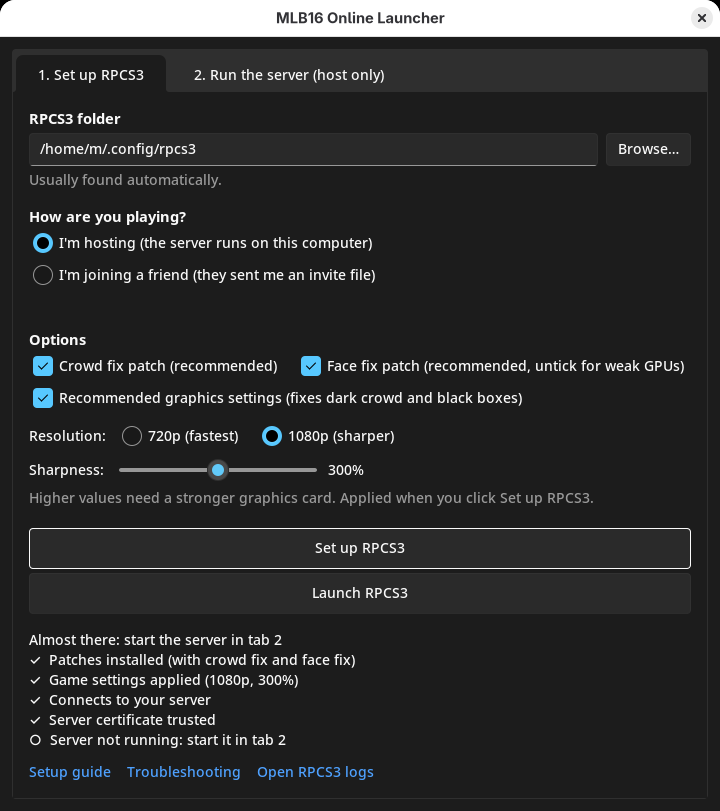
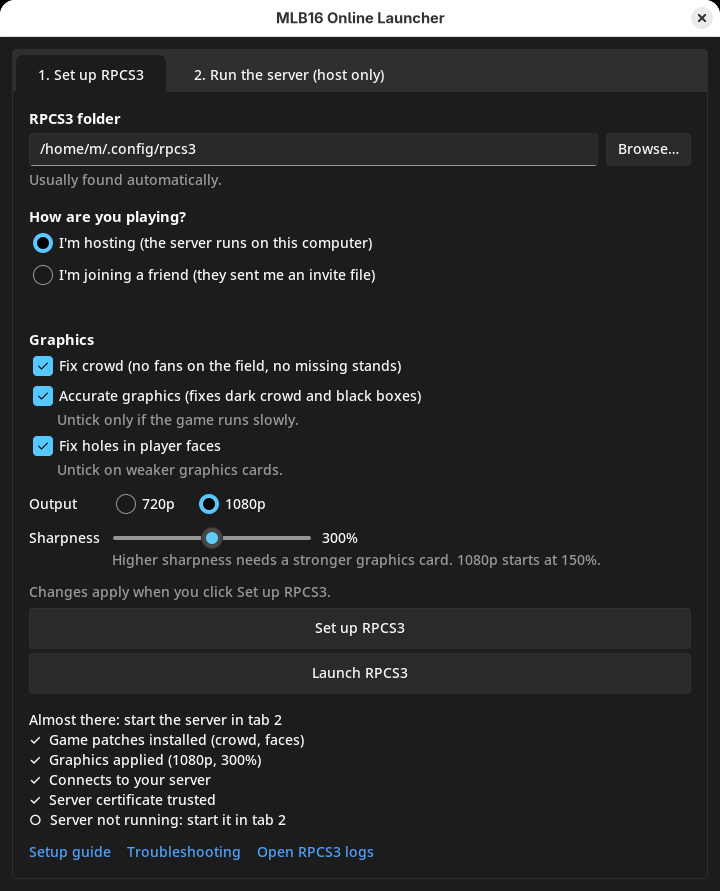
Launcher v0.4.3: clearer Graphics section, setup and launch edge cases
The Options section becomes Graphics: one checkbox per row with plain labels (Fix crowd, Accurate
graphics, Fix holes in player faces), hints only where unticking matters, Output and Sharpness with a
hint that explains the 1080p jump to 150%, and the "applies on Set up" note above the button.

Unticking Accurate graphics now sets those settings back to RPCS3's defaults. Set up can no longer
fail forever: a corrupt RPCS3 YAML file is kept as .broken and rebuilt, certificate and other errors
get a message. Launch asks for RPCS3 on macOS when Spotlight can't find it, opens a picked .app, and
a new RPCS3 folder clears the saved program path.

diff --git a/app/mlb16_online.py b/app/mlb16_online.py
@@ -160,32 +160,33 @@ class App(tk.Tk):
         self.invite_label = ttk.Label(inv, style='Hint.TLabel')
         self.invite_label.pack(side='right', padx=(10, 0))
 
-        ttk.Label(f, text='Options', font=('', 11, 'bold')).grid(row=7, column=0, columnspan=3, sticky='w',
-                                                                 pady=(16, 0))
+        ttk.Label(f, text='Graphics', font=('', 11, 'bold')).grid(row=7, column=0, columnspan=3, sticky='w',
+                                                                  pady=(16, 0))
         self.crowd = tk.BooleanVar(value=self.cfg['crowd_fix'])
         self.graphics = tk.BooleanVar(value=self.cfg['graphics'])
         self.face = tk.BooleanVar(value=self.cfg['face_fix'])
-        fixes = ttk.Frame(f)
-        fixes.grid(row=8, column=0, columnspan=3, sticky='w', pady=2)
-        ttk.Checkbutton(fixes, text='Crowd fix patch (recommended)', variable=self.crowd,
-                        command=self.refresh).pack(side='left')
-        ttk.Checkbutton(fixes, text='Face fix patch (recommended, untick for weak GPUs)', variable=self.face,
-                        command=self.refresh).pack(side='left', padx=(16, 0))
-        ttk.Checkbutton(f, text='Recommended graphics settings (fixes dark crowd and black boxes)',
-                        variable=self.graphics, command=self.refresh).grid(row=9, column=0, columnspan=3, sticky='w', pady=2)
+        opts = ttk.Frame(f)
+        opts.grid(row=8, column=0, columnspan=3, sticky='w')
+        for text, var, hint in (('Fix crowd (no fans on the field, no missing stands)', self.crowd, None),
+                                ('Accurate graphics (fixes dark crowd and black boxes)', self.graphics,
+                                 'Untick only if the game runs slowly.'),
+                                ('Fix holes in player faces', self.face, 'Untick on weaker graphics cards.')):
+            ttk.Checkbutton(opts, text=text, variable=var, command=self.refresh).pack(anchor='w', pady=(2, 0))
+            if hint:
+                ttk.Label(opts, text=hint, style='Hint.TLabel').pack(anchor='w', padx=(28, 0))
         # Resolution and Sharpness share a grid so their controls line up
         pic = ttk.Frame(f)
-        pic.grid(row=10, column=0, columnspan=3, sticky='w', pady=(8, 0))
+        pic.grid(row=10, column=0, columnspan=3, sticky='w', pady=(10, 0))
         self.picture = tk.StringVar(value=self.cfg['picture'])
-        ttk.Label(pic, text='Resolution:').grid(row=0, column=0, sticky='w', padx=(0, 12))
+        ttk.Label(pic, text='Output').grid(row=0, column=0, sticky='w', padx=(0, 12))
         res = ttk.Frame(pic)
         res.grid(row=0, column=1, sticky='w')
-        ttk.Radiobutton(res, text='720p (fastest)', variable=self.picture, value='720p',
+        ttk.Radiobutton(res, text='720p', variable=self.picture, value='720p',
                         command=self.picture_changed).pack(side='left')
-        ttk.Radiobutton(res, text='1080p (sharper)', variable=self.picture, value='1080p',
+        ttk.Radiobutton(res, text='1080p', variable=self.picture, value='1080p',
                         command=self.picture_changed).pack(side='left', padx=(16, 0))
         self.scale = tk.IntVar(value=self.cfg.get('scale') or int(s.PICTURE[self.picture.get()]['Resolution Scale']))
-        ttk.Label(pic, text='Sharpness:').grid(row=1, column=0, sticky='w', padx=(0, 12), pady=(8, 0))
+        ttk.Label(pic, text='Sharpness').grid(row=1, column=0, sticky='w', padx=(0, 12), pady=(8, 0))
         sharp = ttk.Frame(pic)
         sharp.grid(row=1, column=1, sticky='w', pady=(8, 0))
         self.scale_slider = ttk.Scale(sharp, from_=100, to=500, length=200, value=self.scale.get(),
@@ -193,11 +194,13 @@ class App(tk.Tk):
         self.scale_slider.pack(side='left')
         self.scale_label = ttk.Label(sharp, text=f'{self.scale.get()}%', width=5)
         self.scale_label.pack(side='left', padx=(10, 0))
-        ttk.Label(f, text='Higher values need a stronger graphics card. Applied when you click Set up RPCS3.',
-                  style='Hint.TLabel').grid(row=11, column=0, columnspan=3, sticky='w', pady=(6, 0))
+        ttk.Label(pic, text='Higher sharpness needs a stronger graphics card. 1080p starts at 150%.',
+                  style='Hint.TLabel').grid(row=2, column=1, sticky='w')
+        ttk.Label(f, text='Changes apply when you click Set up RPCS3.',
+                  style='Hint.TLabel').grid(row=11, column=0, columnspan=3, sticky='w', pady=(12, 0))
 
         self.setup_btn = ttk.Button(f, text='Set up RPCS3', command=self.do_setup)
-        self.setup_btn.grid(row=12, column=0, columnspan=3, sticky='ew', pady=(20, 4), ipady=4)
+        self.setup_btn.grid(row=12, column=0, columnspan=3, sticky='ew', pady=(6, 4), ipady=4)
         self.launch_btn = ttk.Button(f, text='Launch RPCS3', command=self.launch_rpcs3)
         self.launch_btn.grid(row=13, column=0, columnspan=3, sticky='ew', ipady=4)
 
@@ -216,6 +219,8 @@ class App(tk.Tk):
         d = filedialog.askdirectory(title='RPCS3 folder', initialdir=self.rpcs3_dir.get() or str(Path.home()))
         if d:
             self.rpcs3_dir.set(d)
+            if self.cfg.pop('rpcs3_exe', None):   # a new RPCS3 folder: ask where its program is again
+                self.cfg.save()
             self.refresh()
 
     def open_rpcs3_logs(self):
@@ -243,7 +248,10 @@ class App(tk.Tk):
     def target(self):
         """(server IP, CA bytes) for this player's RPCS3, or a reason it isn't known yet."""
         if self.mode.get() == 'host':
-            return '127.0.0.1', (s.ensure_host_certs() / 'ca.pem').read_bytes()
+            try:
+                return '127.0.0.1', (s.ensure_host_certs() / 'ca.pem').read_bytes()
+            except Exception as e:   # never leave Set up or the checklist broken over this
+                return None, f"Couldn't create this computer's server certificate ({e}). Check that you can write to {s.data_dir()}."
         if not self.cfg.get('invite_host'):
             return None, 'Open the invite file your friend sent you first.'
         return self.cfg['invite_host'], self.cfg['invite_ca'].encode()
@@ -261,7 +269,7 @@ class App(tk.Tk):
                 return
             self.cfg['rpcs3_exe'] = exe
             self.cfg.save()
-            cmd = [exe]
+            cmd = s.rpcs3_command(r, exe)
         env = dict(os.environ)
         if getattr(sys, 'frozen', False):
             # the bundled app points the library search path at its own temp folder; RPCS3 must not inherit that
@@ -318,7 +326,7 @@ class App(tk.Tk):
             s.install_game_config(r, ip, graphics=self.graphics.get(), picture=self.picture.get(),
                                   scale=self.scale.get())
             s.install_ca(r, ca)
-        except OSError as e:
+        except Exception as e:   # any failure gets a message, so Set up can always be retried
             messagebox.showerror('Setup failed', "Couldn't change the files in your RPCS3 folder. Make sure RPCS3 is "
                                  f'closed and the folder is right, then try again.\n\nDetails: {e}')
             return
@@ -354,11 +362,11 @@ class App(tk.Tk):
             where = 'your server' if server == '127.0.0.1' else server
             crowd, graphics, picture, scale = self.crowd.get(), self.graphics.get(), self.picture.get(), self.scale.get()
             # each row compares RPCS3's files with the options chosen above, so a changed option shows up here
-            fixes = ' and '.join(n for n, on in (('crowd fix', crowd), ('face fix', self.face.get())) if on)
+            fixes = ', '.join(n for n, on in (('crowd', crowd), ('faces', self.face.get())) if on)
             rows = [(s.patches_status(r, crowd, self.face.get()),
-                     'Patches installed' + (f' (with {fixes})' if fixes else ''), 'Patches'),
-                    (s.game_config_status(r, graphics, picture, scale), f'Game settings applied ({picture}, {scale}%)',
-                     'Game settings'),
+                     'Game patches installed' + (f' ({fixes})' if fixes else ''), 'Game patches'),
+                    (s.game_config_status(r, graphics, picture, scale), f'Graphics applied ({picture}, {scale}%)',
+                     'Graphics'),
                     (server is not None and server == want_ip, f'Connects to {where}', 'Server address'),
                     (ca is not None and isinstance(want_ca, bytes) and ca == want_ca, 'Server certificate trusted',
                      'Server certificate')]
@@ -367,7 +375,8 @@ class App(tk.Tk):
             if hosting:   # the most common first-session failure: everything set up but no server
                 lines.append('✓  Server running' if self.server_running() else '○  Server not running: start it in tab 2')
             ready = set_up and (not hosting or self.server_running())
-            head = ('Open the invite file your friend sent you, then click "Set up RPCS3":' if want_ip is None else
+            head = (('Open the invite file your friend sent you, then click "Set up RPCS3":' if not hosting else want_ca)
+                    if want_ip is None else
                     'Ready to play: click Launch RPCS3' if ready else
                     'Almost there: start the server in tab 2' if set_up else
                     'Click "Set up RPCS3" to apply:')

diff --git a/app/setup_logic.py b/app/setup_logic.py
@@ -21,6 +21,7 @@ GRAPHICS = {
     'Strict Rendering Mode': 'false', 'Disable Vertex Cache': 'true',
     'Shader Precision': 'High',
 }
+GRAPHICS_OFF = {k: 'false' for k in GRAPHICS} | {'Shader Precision': 'High'}   # RPCS3's defaults, when unticked
 # Always set, back to RPCS3's defaults (from RPCS3's system_config.h): every CPU, SPU and RSX accuracy or timing
 # setting, so speed tweaks from a player's global config can't freeze a match. Every freeze we traced came from one:
 # SPU Block Size "Mega" with Accurate SPU Reservations off (a hang, and an error inside cellSpursRemoveWorkload), and
@@ -146,12 +147,16 @@ def rpcs3_running():
 def rpcs3_command(r, saved=None):
     """How to start RPCS3, or None if the user has to point at it (a Linux AppImage can be anywhere)."""
     if saved and Path(saved).exists():
-        return [saved]
+        return ['open', saved] if saved.endswith('.app') else [saved]   # a macOS app bundle is a folder
     if sys.platform == 'win32':
         exe = r.root / 'rpcs3.exe'
         return [str(exe)] if exe.exists() else None
     if sys.platform == 'darwin':
-        return ['open', '-a', 'RPCS3']
+        try:   # Spotlight knows where the app is; if it doesn't, ask the user instead of a silent 'open' failure
+            found = subprocess.run(['mdfind', 'kMDItemCFBundleIdentifier == "net.rpcs3.rpcs3"'], **_quiet()).stdout
+        except (OSError, subprocess.SubprocessError):
+            found = 'unknown'   # can't tell: try the normal way
+        return ['open', '-a', 'RPCS3'] if found.strip() else None
     if shutil.which('rpcs3'):
         return ['rpcs3']
     if (Path.home() / '.var' / 'app' / 'net.rpcs3.RPCS3').is_dir() and shutil.which('flatpak'):
@@ -162,10 +167,17 @@ def rpcs3_command(r, saved=None):
 # ---------------------------------------------------------------- YAML as RPCS3 writes it
 
 def load_yaml(path):
-    """Every scalar stays a string ('01.10' must not become 1.1), exactly as RPCS3 reads it."""
+    """Every scalar stays a string ('01.10' must not become 1.1), exactly as RPCS3 reads it. A file that isn't
+    valid YAML is kept next to it as .broken and read as empty, so Set up can rebuild it instead of failing forever."""
     try:
-        return yaml.load(Path(path).read_text(encoding='utf-8'), Loader=yaml.BaseLoader) or {}
+        d = yaml.load(Path(path).read_text(encoding='utf-8'), Loader=yaml.BaseLoader) or {}
+        if not isinstance(d, dict):
+            raise yaml.YAMLError('not a mapping')
+        return d
     except FileNotFoundError:
+        return {}
+    except (yaml.YAMLError, UnicodeDecodeError):
+        shutil.copyfile(path, str(path) + '.broken')
         return {}
 
 
@@ -274,8 +286,7 @@ def install_game_config(r, server_ip, graphics=True, picture='720p', scale=None)
     cfg['Log'] = {k: 'Notice' for k in cfg.get('Log', {})}
     video = cfg.setdefault('Video', {})
     video.update(VIDEO_STABILITY)
-    if graphics:
-        video.update(GRAPHICS)
+    video.update(GRAPHICS if graphics else GRAPHICS_OFF)
     video.update(PICTURE[picture], **{'Output Scaling Mode': 'Bilinear'})
     if scale:
         video['Resolution Scale'] = str(scale)
@@ -287,7 +298,7 @@ def game_config_status(r, graphics=True, picture='720p', scale=None):
     """True if this game's config has the settings install_game_config would write with these options."""
     cfg = load_yaml(r.custom_config)
     core, video = cfg.get('Core', {}), cfg.get('Video', {})
-    want = {**VIDEO_STABILITY, **(GRAPHICS if graphics else {}), **PICTURE[picture],
+    want = {**VIDEO_STABILITY, **(GRAPHICS if graphics else GRAPHICS_OFF), **PICTURE[picture],
             'Output Scaling Mode': 'Bilinear', 'Resolution Scale': str(scale or PICTURE[picture]['Resolution Scale'])}
     want['MSAA'] = msaa(want['Resolution Scale'])
     return (all(core.get(k) == v for k, v in STABILITY.items()) and all(video.get(k) == v for k, v in want.items()))

diff --git a/app/test_setup_logic.py b/app/test_setup_logic.py
@@ -66,13 +66,17 @@ for windows in (False, True):
         c = s.load_yaml(r.custom_config)
         assert c['Video']['Resolution Scale'] == '150' and c['Core']['SPU Block Size'] == 'Safe'
         assert c['Video']['Resolution'] == '1920x1080' and c['Video']['Anisotropic Filter Override'] == '8'
-        assert c['Video']['Write Color Buffers'] == 'true' and c['Net']['PSN status'] == 'RPCN'
+        assert c['Video']['Write Color Buffers'] == 'false' and c['Net']['PSN status'] == 'RPCN'   # unticked: RPCS3 defaults
         assert s.game_config_server(r) == '100.1.2.3'
-        assert s.game_config_status(r, graphics=False, picture='1080p') and s.game_config_status(r, picture='1080p')
+        assert s.game_config_status(r, graphics=False, picture='1080p') and not s.game_config_status(r, picture='1080p')
         s.install_game_config(r, '100.1.2.3', picture='1080p', scale=500)
         assert s.load_yaml(r.custom_config)['Video']['Resolution Scale'] == '500'
         assert s.load_yaml(r.custom_config)['Video']['MSAA'] == 'Disabled' and c['Video']['MSAA'] == 'Auto'
         assert s.game_config_status(r, picture='1080p', scale=500) and not s.game_config_status(r, picture='1080p')
+
+        r.custom_config.write_text('Video: [unclosed\n')   # a corrupt config must not make Set up fail forever
+        s.install_game_config(r, '100.1.2.3', picture='1080p')
+        assert s.game_config_status(r, picture='1080p') and Path(str(r.custom_config) + '.broken').exists()
 
         certs = root / 'hostcerts'
         s.make_server_certs(certs)

diff --git a/TECHNICAL.md b/TECHNICAL.md
@@ -13,8 +13,10 @@ or do the same for another game. The deep dives are in [`docs/`](docs/).
 
 ## Graphics settings
 
-The launcher applies these when "Recommended graphics settings" is ticked, for MLB The Show 16 only (in the game's
-custom config). By hand: right-click the game in RPCS3 → **Create Custom Configuration**, then set:
+The launcher applies these when "Accurate graphics" is ticked, for MLB The Show 16 only (in the game's
+custom config). Unticked, it sets the buffer, vertex cache and shader precision settings back to RPCS3's defaults; the
+stability settings are always applied. By hand: right-click the game in RPCS3 → **Create Custom Configuration**, then
+set:
 - **GPU:** Write Color Buffers on, Strict Rendering Mode **off**, ZCULL Accuracy *Precise*, Shader Quality *High*,
   Output Scaling *Bilinear*. Picture: Default Resolution *720p* at Resolution Scale *100%*, or for a sharper picture
   (the launcher's 1080p) Default Resolution *1080p*, Resolution Scale *150%* and Anisotropic Filter *8x*. The
@@ -37,7 +39,7 @@ RPCS3; *Atomic* logged none. Every freeze traced so far came from a setting chan
 copied from the player's global config (RPCS3's **Create Custom Configuration** copies all global values). So the
 launcher always resets every CPU, SPU and RSX accuracy or timing setting for this game to RPCS3's default (the full
 list is `STABILITY` and `VIDEO_STABILITY` in [app/setup_logic.py](app/setup_logic.py)), and sets this game's
-per-channel log levels back to Notice, even with "Recommended graphics settings" unticked. Default
+per-channel log levels back to Notice, even with "Accurate graphics" unticked. Default
 Resolution *1440×1080* is not 1440p: it's a stretched PS3 output mode, and the game still renders at 720p. The crowd itself needs the **crowd fix patch** from
 [mlb-show-rpcs3-fixes](https://github.com/MatRanc/mlb-show-rpcs3-fixes), which the launcher also installs.
 
@@ -89,7 +91,7 @@ off from 200% up: RPCS3 reads the game's multisampled image without filtering, a
 anyway. Found in RenderDoc: the blur is the last pass of the frame, which also upscales 720p to the output resolution.
 
 **Fix holes in player faces** ([`patches/MLB16_triangle_fix.yml`](patches/MLB16_triangle_fix.yml)) is optional and on by
-default (the *Face fix patch* checkbox). With resolution scaling, faces, ears and caps showed pin-holes where the background came through. RenderDoc showed
+default (the *Fix holes in player faces* checkbox). With resolution scaling, faces, ears and caps showed pin-holes where the background came through. RenderDoc showed
 real gaps in the head meshes, all smaller than a 720p pixel: the game's SPU mesh code (Naughty Dog's ICE library,
 embedded in the EBOOT) culls triangles too thin to cover a pixel at 720p, which at 300% do cover pixels. The patch turns
 the SPU's three cull commands into returns, so every triangle is drawn and back faces are hidden by the depth test. It

diff --git a/README.md b/README.md
@@ -133,9 +133,9 @@ never starts, make sure UPnP is on in both routers.
 - **A player is missing from the room:** wait up to 8 s. Still missing: leave the room and join it again.
 - **Stuck on the stadium select screen:** back out and send a new challenge. Seen once, cause unknown.
 - **Dark crowd, or a black box around the runner's lead-off view:** the graphics settings aren't on. Keep
-  "Recommended graphics settings" ticked in the launcher and run **Set up RPCS3** again.
+  "Accurate graphics" ticked in the launcher and run **Set up RPCS3** again.
 - **The game runs slow:** pick **720p** in the launcher and run **Set up RPCS3** again. Still slow: untick
-  "Recommended graphics settings" too (the crowd may look darker, but the game runs faster). Close-ups (walk-ups, mound
+  "Accurate graphics" too (the crowd may look darker, but the game runs faster). Close-ups (walk-ups, mound
   visits) running at 15 to 25 FPS are normal on mid-range CPUs: they're limited by the CPU, not by these settings.
 - **Part of the crowd flickers or disappears when the camera moves:** seen once at Comerica Park, not reproduced since.
   The game builds a new crowd layout every time a game starts, and some layouts seem to trigger it. Quit to the menu and

diff --git a/docs/ice-mesh.md b/docs/ice-mesh.md
@@ -52,7 +52,7 @@ commands is in:
 | `0x01170820` | `0x13520` (`0x25`) | `il $4,0` | `bi $lr` |
 
 Back faces are now drawn too. The depth test hides them, so the picture is the same at a small GPU cost, only for
-characters. That's why the launcher makes it a checkbox (*Face fix patch*, on by default) that people with weak GPUs
+characters. That's why the launcher makes it a checkbox (*Fix holes in player faces*, on by default) that people with weak GPUs
 can untick. Tested at 300% in gameplay and the attract demo with no freeze and no visual regressions.
 
 ## Dead ends
